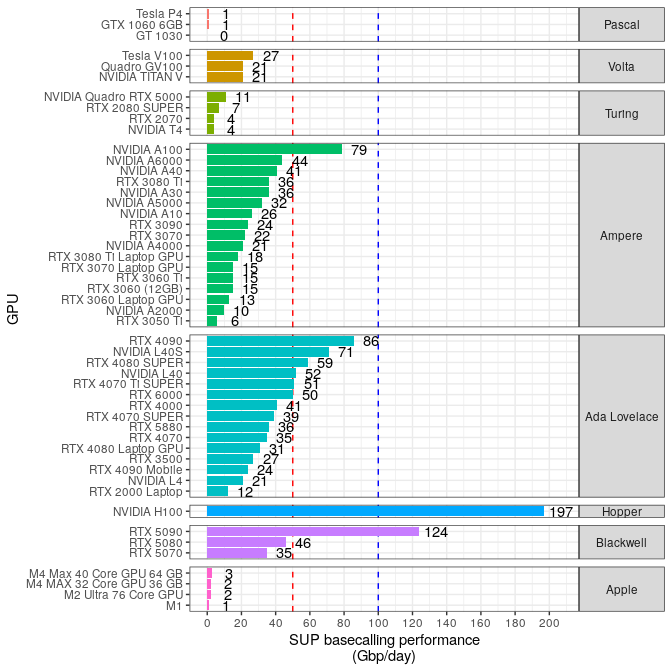
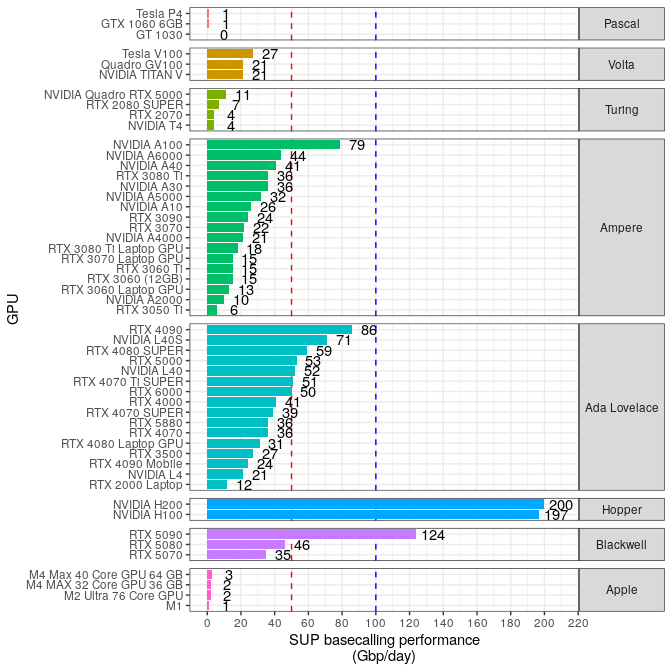
added H200 and RTX5000

diff --git a/README.md b/README.md
@@ -1,7 +1,7 @@
 README
 ================
 Rasmus Kirkegaard
-19 August, 2025
+29 August, 2025
 
 ## Aim
 
